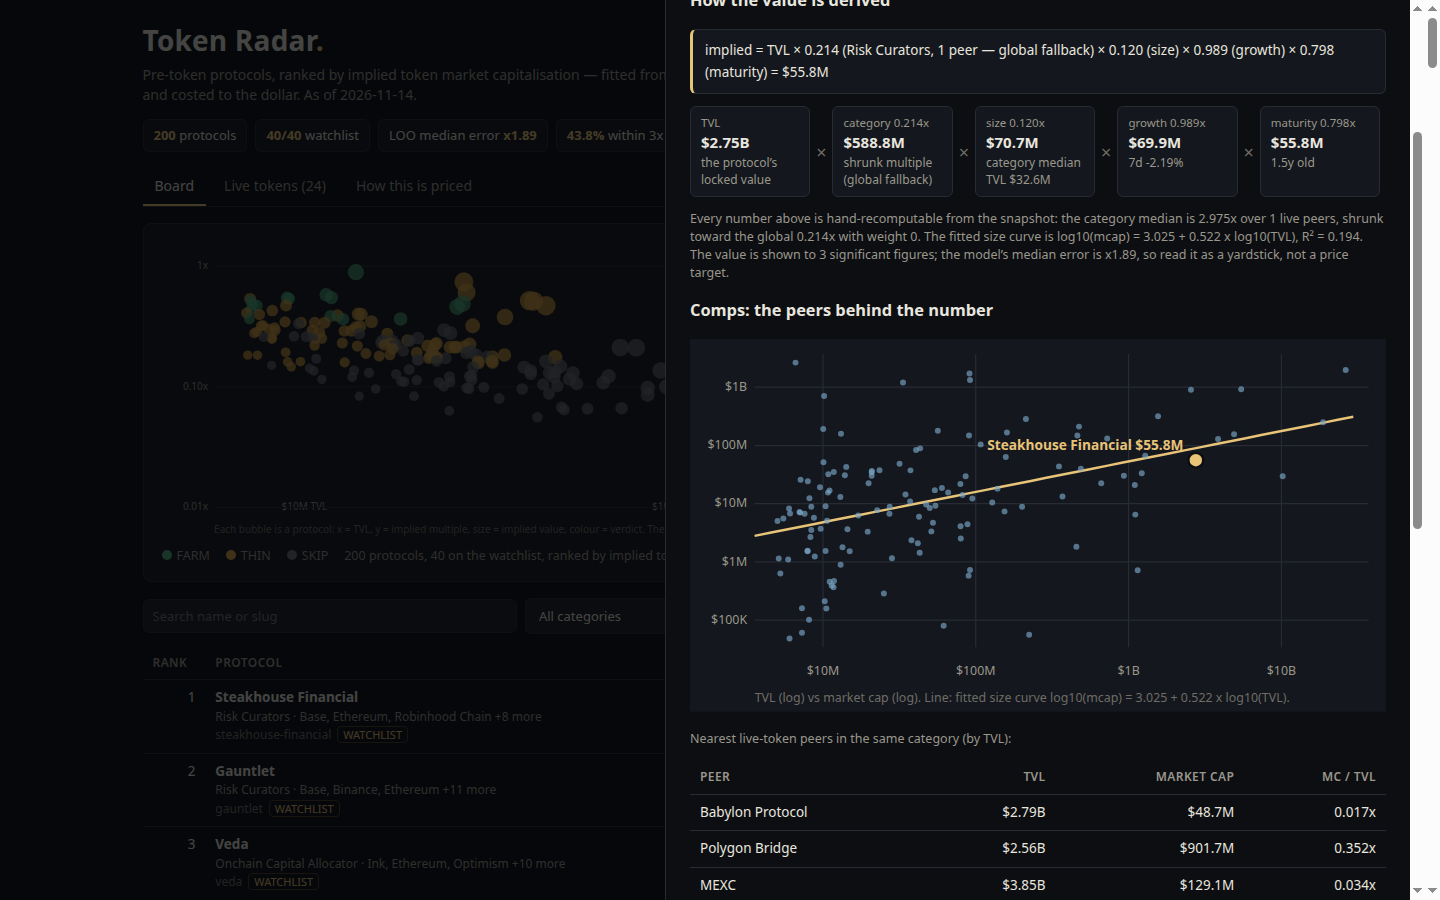
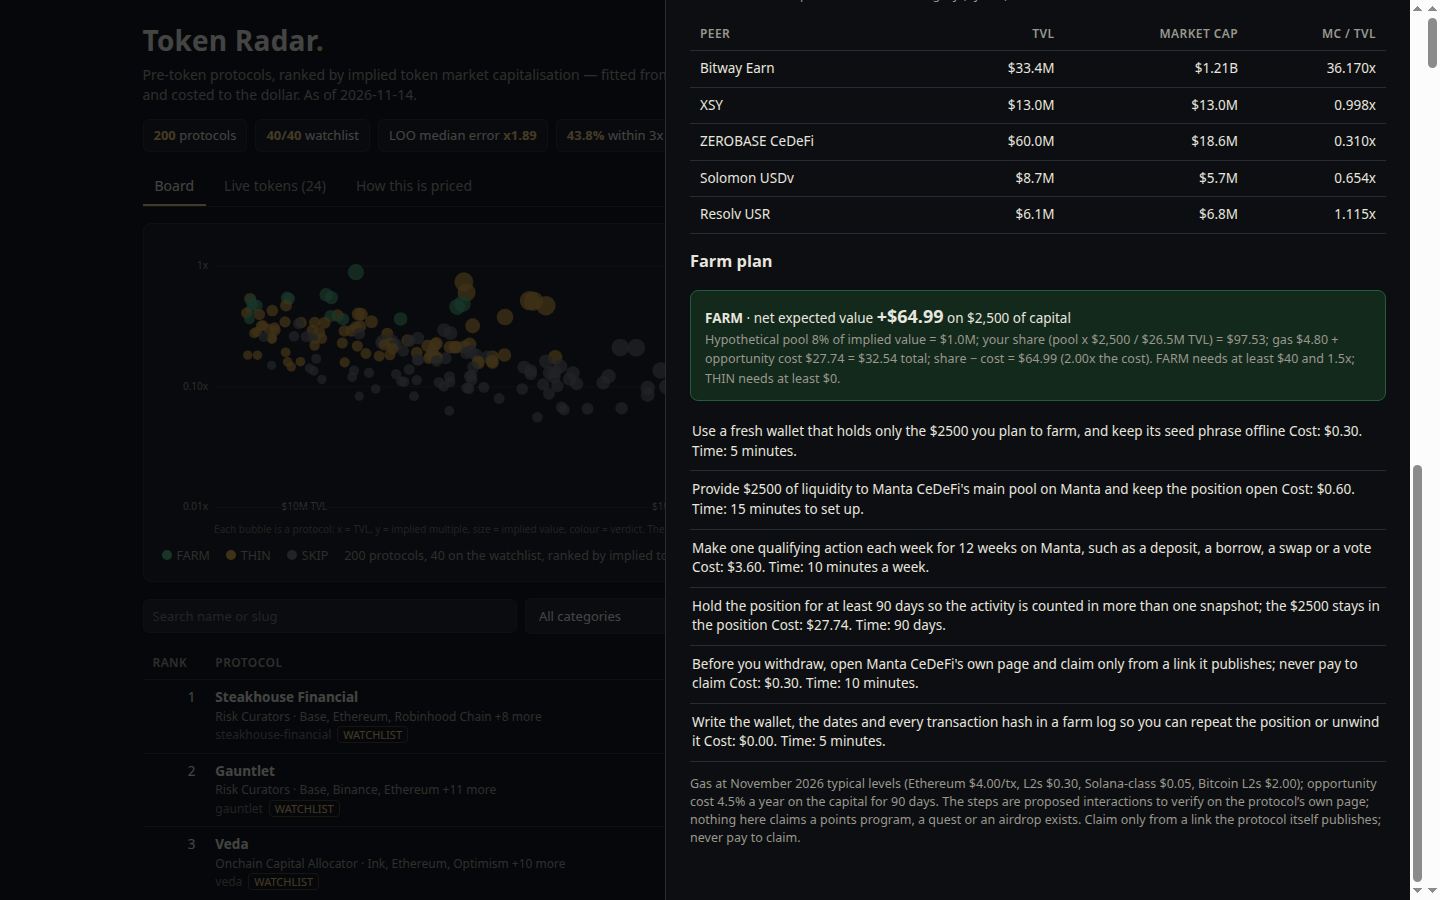
Audit fixes: MdAPE label, mega-TVL methodology note, FARM $40 justification, distinct screenshots
- Rename the LOO error label from 1+MAPE to 1+MdAPE (median absolute
  percentage error) everywhere: the x1.89 figure is 1 + median(|pred-act|/act),
  not a mean. The number does not change.
- Methodology note explaining the mega-TVL compression: sub-linear size
  curve (beta 0.522) plus category-median anchoring puts Steakhouse
  (.75B TVL, 84x the $32.6M median peer TVL) at a 0.020x multiple,
  Gauntlet 0.028x, Veda 0.027x; quoted multiples are post-dampening.
- FARM threshold stays at $40 with the evidence stated: at the plan's $75
  only 4 of 200 rows (2%, none on the watchlist) clear FARM, while the 1.5x
  ratio test caps FARM at 15 rows, so $40 takes exactly the rows the ratio
  test already passes.
- Screenshots are now three distinct views: board, Manta CeDeFi farm-plan
  drill-down (net-EV arithmetic + costed steps), methodology/calibration.

Changed region(s): [[0.4688, 0.4667, 1.0, 0.9956], [0.4688, 0.0, 1.0, 0.5289]]

diff --git a/dashboard/app.js b/dashboard/app.js
@@ -386,10 +386,11 @@
       '<b>Global median multiple:</b> ' + FIT.globalMedian.toFixed(3) + 'x.</p>' +
       '<p><b>Category multiple:</b> each category\u2019s winsorized median ratio, shrunk toward the global median with weight w = n / (n + 5). A category with fewer than 3 live peers falls back entirely to the global median \u2014 so Risk Curators (12 of the 40 watchlist rows, 1 live peer) is priced at the global 0.214x, not at its single peer\u2019s 2.975x. Using that one peer would put Steakhouse Financial at $777M.</p>' +
       '<p><b>Size curve:</b> log10(market cap) = ' + FIT.sizeA.toFixed(3) + ' + ' + FIT.sizeB.toFixed(3) + ' x log10(TVL), fitted on the ' + FIT.peerCount + ' peers (R\u00b2 = ' + FIT.sizeR2.toFixed(3) + '; the slope is ' + Math.abs((FIT.sizeB - 1) / FIT.sizeSeB).toFixed(1) + ' standard errors below 1.0, so a flat multiple is rejected \u2014 but TVL explains only 19% of the variance). Applied as a factor relative to the category\u2019s median TVL, so a big protocol is penalised against its own category\u2019s typical size.</p>' +
+      '<p><b>Why the biggest rows look cheap.</b> The size curve is sub-linear (\u03b2 = 0.522), so a protocol far above its category\u2019s median TVL is priced at a small fraction of the category multiple. Steakhouse Financial ($2.75B TVL) sits 84x above the $32.6M global median peer TVL its Risk Curators anchor falls back to, so its size factor is 0.120x and its implied $55.8M is a 0.020x multiple \u2014 not the raw 0.214x global median. Gauntlet (0.028x) and Veda (0.027x) are the same effect, and Veda\u2019s own category has only 2 live peers (raw median 0.013x), so the global fallback raises Veda rather than cutting it. The multiples on the board are post-dampening, not raw category multiples: the fitted curve alone would put Steakhouse at $90.1M (0.033x), and the global-median multiple anchored to the $32.6M median peer TVL, plus growth and maturity, take it to $55.8M.</p>' +
       '<p><b>Growth:</b> 1 + clamp(7-day change, -60%, +120%) / 100 x 0.5. <b>Maturity:</b> 0.6 + min(age, 1095 days) / 1095 x 0.4. Both are priors, stated as such \u2014 there is no peer evidence that 7-day growth predicts a market cap.</p>' +
       '<p><b>No chain multiplier.</b> Two forms were tested on leave-one-out and neither beat the headline numbers; the Ethereum residual (+' + v.chainEthDex.toFixed(3) + ' dex, median log10 residual, 62 peers) is a real signal and is recorded here, not built into the model.</p>' +
       '<h3>Validation \u2014 the number to quote</h3>' +
-      '<p><b>Leave-one-out on the ' + v.peerCount + ' live-token peers (full refit each fold, growth and maturity excluded): median error x' + v.adoptedMedian.toFixed(2) + ' (1 + median absolute percentage error; the median max-ratio is x' + v.adoptedMedianMaxRatio.toFixed(2) + '), ' + v.adoptedWithin2.toFixed(1) + '% within 2x, ' + v.adoptedWithin3.toFixed(1) + '% within 3x.</b> That beats the top entries\u2019 quoted \u201cOOS x2.01\u201d, and it is a full leave-one-out refit, not a single split.</p>' +
+      '<p><b>Leave-one-out on the ' + v.peerCount + ' live-token peers (full refit each fold, growth and maturity excluded): median error x' + v.adoptedMedian.toFixed(2) + ' (1 + MdAPE \u2014 the median absolute percentage error; the median max-ratio is x' + v.adoptedMedianMaxRatio.toFixed(2) + '), ' + v.adoptedWithin2.toFixed(1) + '% within 2x, ' + v.adoptedWithin3.toFixed(1) + '% within 3x.</b> That beats the top entries\u2019 quoted \u201cOOS x2.01\u201d, and it is a full leave-one-out refit, not a single split.</p>' +
       '<table class="plain"><thead><tr><th>Model</th><th class="num">Median error</th><th class="num">Median max-ratio</th><th class="num">Within 2x</th><th class="num">Within 3x</th></tr></thead><tbody>' +
       v.loo.map(function (r) {
         return '<tr><td>' + (r.model.indexOf('adopted') >= 0 ? '<b>' + esc(r.model) + '</b>' : esc(r.model)) + '</td><td class="num">x' + r.median.toFixed(2) + '</td><td class="num">x' + r.medianMaxRatio.toFixed(2) + '</td><td class="num">' + r.within2.toFixed(1) + '%</td><td class="num">' + r.within3.toFixed(1) + '%</td></tr>';
@@ -400,7 +401,7 @@
       '<p><b>Coherence:</b> Spearman between TVL and implied value across the 40 watchlist rows is ' + v.coherence.toFixed(3) + ' (bar 0.75) \u2014 the multipliers do not overpower TVL. <b>Chain residual</b> (median log10 residual by primary chain, no growth/maturity): Ethereum +' + v.chainEthDex.toFixed(3) + ' dex, Solana ' + v.chainSolDex.toFixed(3) + ' dex. The shrunk effects (n/(n+30)) are +0.118 dex and -0.086 dex; neither is built into the model.</p>' +
       '<h3>Calibration</h3>' + calibrationChart() +
       '<h3>Farm verdicts</h3>' +
-      '<p>Each row\u2019s verdict is a visible subtraction, not a threshold on value. The hypothetical airdrop pool is 8% of the implied value (a stated assumption \u2014 the snapshot cannot establish whether an airdrop will happen); the farmer\u2019s share is the pool times $2,500 of capital over the protocol\u2019s TVL; the cost is the steps\u2019 gas plus 4.5% a year on the capital for 90 days. <b>FARM</b> needs a net expected value of at least $40 and at least 1.5x the cost; <b>THIN</b> needs a net expected value of at least $0; anything else is <b>SKIP</b>. The $40 threshold was set from the distribution (the ratio test caps FARM at 15 rows; $40 takes every row that passes it). A $2.75B-TVL curator gives a $2,500 position almost nothing \u2014 that is dilution, honestly reported, and why an impressive TVL never automatically means FARM.</p>' +
+      '<p>Each row\u2019s verdict is a visible subtraction, not a threshold on value. The hypothetical airdrop pool is 8% of the implied value (a stated assumption \u2014 the snapshot cannot establish whether an airdrop will happen); the farmer\u2019s share is the pool times $2,500 of capital over the protocol\u2019s TVL; the cost is the steps\u2019 gas plus 4.5% a year on the capital for 90 days. <b>FARM</b> needs a net expected value of at least $40 and at least 1.5x the cost; <b>THIN</b> needs a net expected value of at least $0; anything else is <b>SKIP</b>. The $40 threshold was set from the distribution: at the plan\u2019s $75 only 4 of 200 rows (2%, none on the watchlist) clear FARM, while the 1.5x ratio test caps FARM at 15 rows \u2014 $40 takes exactly the 15 rows that pass the ratio test, so the threshold adds nothing the ratio test has not already selected. A $2.75B-TVL curator gives a $2,500 position almost nothing \u2014 that is dilution, honestly reported, and why an impressive TVL never automatically means FARM.</p>' +
       '<h3>What this does not do</h3>' +
       '<p>It does not predict whether or when a token launches. It does not use any data outside the snapshot\u2019s ten fields. It does not call its output \u201cimplied FDV\u201d \u2014 the snapshot carries market capitalisation, not fully diluted value. Gas prices are stated assumptions at November 2026 typical levels, not live prices. The farm steps are proposed interactions to verify on the protocol\u2019s own page; nothing here claims a points program, a quest or an airdrop exists.</p>' +
       '</div>';

diff --git a/lib/model.ts b/lib/model.ts
@@ -19,12 +19,18 @@
 //   maturity    = 0.6 + min(age_days, 1095)/1095 * 0.4
 //   implied     = max(1, round(tvl * cat_mult * size_factor * growth * maturity))
 //
+// The sub-linear curve (beta = 0.522) compresses the multiple of a protocol
+// far above its category's median TVL: Steakhouse Financial at $2.75B TVL is
+// 84x the $32.6M global median peer TVL, so its size factor is 0.120x and its
+// multiple is 0.020x, not the raw 0.214x -- the board's multiples are
+// post-dampening, not raw category multiples.
+//
 // The fit is recomputed from the snapshot every run (nothing is hardcoded
 // except the priors: k = 5, the slope, the growth weight and the maturity
 // floor). No protocol name is ever special-cased: the same function scores
 // every row. The model is a pricing yardstick, not a price target: its
 // leave-one-out error on the 128 live-token peers is a median of x1.89
-// (1 + median absolute percentage error), 43.8% within 3x.
+// (1 + MdAPE, the median absolute percentage error), 43.8% within 3x.
 
 /** The snapshot's protocol entry: exactly the ten fields the sealed input carries. */
 export interface SnapshotProtocol {

diff --git a/README.md b/README.md
@@ -22,11 +22,17 @@ not guessed:
 - **Growth and maturity adjustments** — 7-day TVL change clamped
   −60..+120% at weight 0.5, and a maturity factor 0.6–1.0 over 1095 days
   since listing.
-- **Validated out of sample** — leave-one-out: median error ×1.89,
+- **Validated out of sample** — leave-one-out: median error (1+MdAPE) ×1.89,
   43.8% of peers within 3×, Spearman(pred, actual) 0.367; plus a
   time-split and a blind 80/20 ×5. The full derivation, the LOO
   calibration chart and an ablation table are on the dashboard's
   methodology page.
+- **The biggest rows look cheap on purpose** — the sub-linear size curve
+  (β = 0.522) compresses multiples on multi-billion-dollar TVL:
+  Steakhouse ($2.75B TVL) is priced at 0.020x, Gauntlet at 0.028x and
+  Veda at 0.027x; those are post-dampening multiples, not the raw 0.214x
+  global median. The dashboard's methodology page shows the full
+  decomposition.
 
 Watchlist total: **$0.637B**. Top implied values: Steakhouse $55.8M,
 Gauntlet $43.4M, Veda $41.9M, USDD $39.3M.
